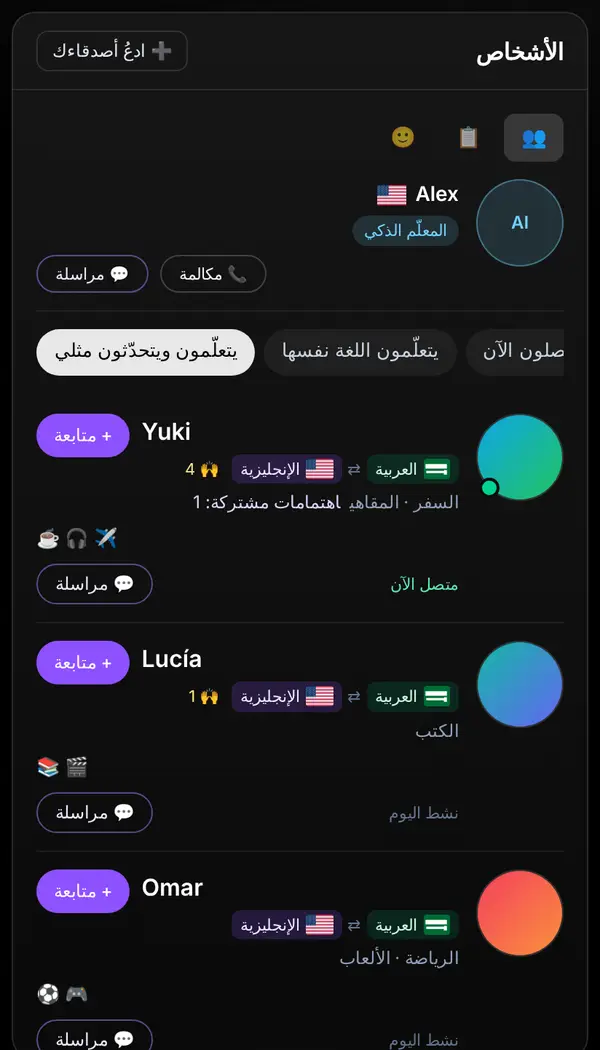
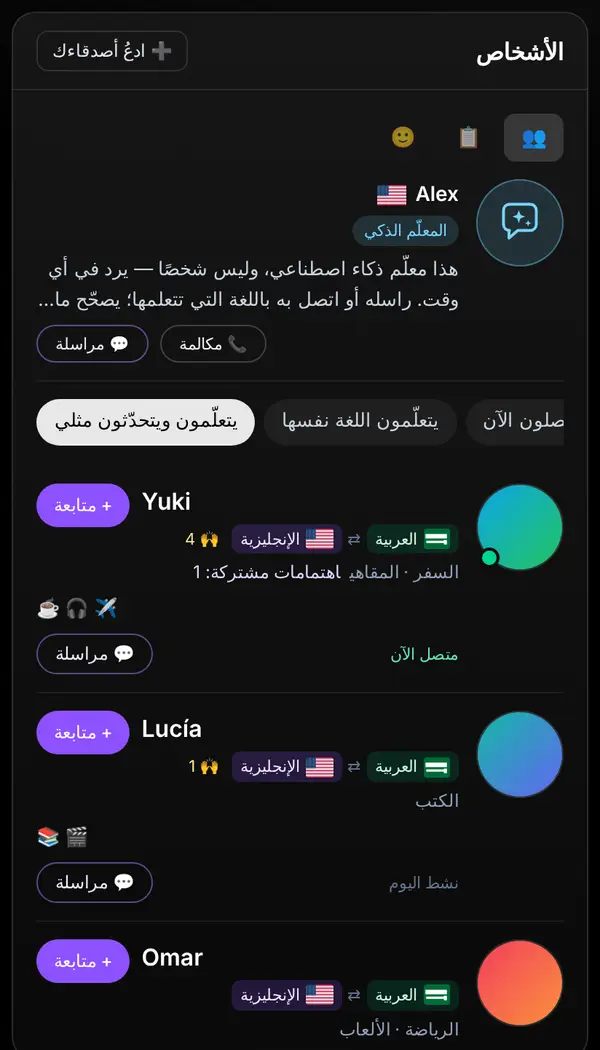
AI 튜터 그림(말풍선·반짝임 아이콘)과 소개 글(사람이 아니라 AI 튜터) 14개 언어, 사용법 그림 다시 — 앱 빌드
Claude-Session: https://claude.ai/code/session_01Ve28KufRWnLxBcdBrz6cEL

diff --git a/src/components/AiTutorProfile.tsx b/src/components/AiTutorProfile.tsx
@@ -10,15 +10,26 @@ import { chatPartnerForLanguage } from "@/lib/chatPartner";
  * AI 튜터도 사람 중 하나(2026-10-27 사용자 "AI 튜터를 아예 사람들과 통합해줘. 프로필 탭에 가면 AI 튜터가 있고 대화를 걸 수 있는 흐름으로").
  * 사람 탭 목록 맨 위에 사람 카드처럼 한 줄, 누르면 프로필 시트 — 💬 메시지(AI 대화) · 📞 통화 · 통화 기록.
  * 이름·국기는 학습 언어별 튜터(lib/chatPartner.ts — AI 대화 머리와 같은 사람). 로그인 없이도 보인다(AI 기능은 로그인 없이).
+ * 소개 글 `aiTutorBio` — 사람이 아니라 AI 튜터임과 할 수 있는 것(사용자가 이 화면에 넣으라고 함, DESIGN.md "안내 글" 예외).
+ */
+/**
+ * AI 튜터 그림(2026-10-27 사용자 "AI 아이콘으로 이미지와 프로필을 만들어 넣어줘. 사람처럼 만들 필요는 없고"):
+ * 사람 얼굴 대신 말풍선 + 반짝임. 색은 토큰(info)에서 — currentColor.
  */
 export function AiAvatar({ size = 60 }: { size?: number }) {
   return (
     <span
       aria-hidden
       style={{ width: size, height: size }}
-      className="flex shrink-0 items-center justify-center rounded-full border border-info/40 bg-info/15 text-caption font-semibold text-info"
+      className="flex shrink-0 items-center justify-center rounded-full border border-info/40 bg-info/15 text-info"
     >
-      AI
+      <svg viewBox="0 0 48 48" width={Math.round(size * 0.6)} height={Math.round(size * 0.6)} fill="none" stroke="currentColor" strokeWidth={2.6} strokeLinecap="round" strokeLinejoin="round">
+        {/* 말풍선 */}
+        <path d="M9 12.5A5.5 5.5 0 0 1 14.5 7h19A5.5 5.5 0 0 1 39 12.5v13A5.5 5.5 0 0 1 33.5 31H22l-8 7v-7h0.5A5.5 5.5 0 0 1 9 25.5z" />
+        {/* 반짝임(큰 별 + 작은 별) */}
+        <path d="M23 12.5l1.6 4.2 4.2 1.6-4.2 1.6L23 24.1l-1.6-4.2-4.2-1.6 4.2-1.6z" fill="currentColor" stroke="none" />
+        <path d="M31.5 21.5l0.8 2 2 0.8-2 0.8-0.8 2-0.8-2-2-0.8 2-0.8z" fill="currentColor" stroke="none" />
+      </svg>
     </span>
   );
 }
@@ -49,6 +60,7 @@ export function AiTutorPerson({ ui, targetLanguage, canCall, messageLabel }: { u
           <button type="button" onClick={() => setOpen(true)} className="block w-full text-start">
             <TutorName targetLanguage={targetLanguage} className="text-body font-semibold text-white" />
             <span className="mt-1 inline-block rounded-full bg-info/15 px-2 py-0.5 text-meta text-info">{ui.talkAiTutor}</span>
+            <p className="mt-1.5 line-clamp-2 text-note leading-relaxed text-slate-300">{ui.aiTutorBio}</p>
           </button>
           <div className="mt-1.5 flex items-center justify-end gap-2">
             {canCall ? (
@@ -108,6 +120,7 @@ export function AiTutorSheet({
               ×
             </button>
           </div>
+          <p className="mt-4 text-body leading-relaxed text-slate-200">{ui.aiTutorBio}</p>
           <div className="mt-5 grid grid-cols-2 gap-2">
             <button type="button" onClick={go(openChat)} className="rounded-xl bg-violet-500 px-3 py-2.5 text-body font-medium text-white">
               💬 {messageLabel}

diff --git a/src/lib/copy.ts b/src/lib/copy.ts
@@ -722,6 +722,7 @@ const generatedWhatsNewOverlay = {
   talkAiTutorSub: "Practise in chat · 📞 call",
   talkAiCall: "Call the AI tutor",
   callRecordsTitle: "Call history",
+  aiTutorBio: "An AI tutor, not a person — it answers any time. Chat or call in the language you're learning; it fixes what you write and tells you how to say what you mean.",
   homeTabMessages: "Messages",
   modeAi: "Learn with AI",
   modePeople: "Learn with people",
@@ -1308,6 +1309,7 @@ export const copy = {
     talkAiTutorSub: "채팅으로 연습 · 📞 통화",
     talkAiCall: "AI 튜터와 통화",
     callRecordsTitle: "통화 기록",
+    aiTutorBio: "사람이 아니라 AI 튜터예요. 언제든 바로 답해요. 배우는 언어로 채팅·통화하고, 쓴 문장을 고쳐 주고 하고 싶은 말을 그 언어로 알려 줘요.",
     homeTabMessages: "메시지",
     modeAi: "AI와 학습",
     modePeople: "사람과 학습",
@@ -2628,6 +2630,7 @@ export const copy = {
     talkAiTutorSub: "Practise in chat · 📞 call",
     talkAiCall: "Call the AI tutor",
     callRecordsTitle: "Call history",
+    aiTutorBio: "An AI tutor, not a person — it answers any time. Chat or call in the language you're learning; it fixes what you write and tells you how to say what you mean.",
     homeTabMessages: "Messages",
     modeAi: "Learn with AI",
     modePeople: "Learn with people",
@@ -3947,6 +3950,7 @@ export const copy = {
     talkAiTutorSub: "Practica en el chat · 📞 llamada",
     talkAiCall: "Llamar al tutor IA",
     callRecordsTitle: "Historial de llamadas",
+    aiTutorBio: "Un tutor IA, no una persona: responde en cualquier momento. Chatea o llama en el idioma que aprendes; corrige lo que escribes y te dice cómo decir lo que quieres.",
     homeTabMessages: "Mensajes",
     modeAi: "Con la IA",
     modePeople: "Con personas",

diff --git a/PRODUCT.md b/PRODUCT.md
@@ -275,7 +275,7 @@
   고르기는 모델을 부르지 않아 AI 도움·비용이 들지 않는다. 팀 워크스페이스에 쌓이는 "물은 표현"은 고른 부분이 있으면 그 부분.
   "✉ 쪽지로 묻기"는 같은 인용을 그 줄을 말한 사람과의 1:1 메시지로(질문 미리 채움, 말풍선에 "🎙 말하는 방에서", 30일), 받는 사람이 방에 있으면 위에 "…님이 쪽지를 보냈어요"(누르면 대화). 보내면 댓글에 인용이 붙고(인용 글은 서버가 방 기록에서 채움), 집힌 줄 옆에 ❓ 수, 말한 사람에게는 그 질문이 노란 테두리 "…님이 내 말을 물어봤어요". 답은 목소리로 하거나 그 질문을 "답하기". 문구는 14개 언어(`src/lib/rooms/copy.ts`·`copy.locales.ts`, Claude가 씀 — 원어민 확인 권장). 기획: `hub/drafts/voice-room-workspace.md`.
   하단 탭 이름(2026-10-19, 사용자 요청): 사람 → **My**(각 언어의 My와 같은 말, 예: ja マイ·es Mi espacio), 말하는 방 → **Room**(ko·en, 다른 언어는 그대로). 화면 제목·안의 글은 그대로 "말하는 방".
-  **AI 튜터도 사람 중 하나(2026-10-27, 사용자 "AI 튜터를 아예 사람들과 통합 — 프로필 탭에 가면 AI 튜터가 있고 대화를 걸 수 있는 흐름", `AiTutorProfile.tsx`):** 사람 탭 목록 맨 위에 사람 카드처럼 AI 튜터(학습 언어별 이름·국기, "AI 튜터" 표시, 💬 메시지·📞 통화). 누르면 프로필 시트 — 💬 메시지 → AI 대화, 📞 통화, 통화 기록. 로그인 없이도 보인다. 대화 탭 맨 위 줄도 같은 이름·국기의 대화 한 줄(📞 바로 통화), 따로 있던 "AI 튜터와 통화" 줄은 뺌.
+  **AI 튜터도 사람 중 하나(2026-10-27, 사용자 "AI 튜터를 아예 사람들과 통합 — 프로필 탭에 가면 AI 튜터가 있고 대화를 걸 수 있는 흐름", `AiTutorProfile.tsx`):** 사람 탭 목록 맨 위에 사람 카드처럼 AI 튜터(학습 언어별 이름·국기, "AI 튜터" 표시, 그림은 사람 얼굴 대신 말풍선 + 반짝임 아이콘, 소개 글 `aiTutorBio` "사람이 아니라 AI 튜터예요…"(사용자 2026-10-27 "AI임을 설명해줘"), 💬 메시지·📞 통화). 누르면 프로필 시트 — 💬 메시지 → AI 대화, 📞 통화, 통화 기록. 로그인 없이도 보인다. 대화 탭 맨 위 줄도 같은 이름·국기의 대화 한 줄(📞 바로 통화), 따로 있던 "AI 튜터와 통화" 줄은 뺌.
   **사람 탭(하단 맨 끝, 2026-10-18, `PeopleTab.tsx`·`RoomPeople.tsx`, `/api/social` people·ping, `server/presenceStore.ts`):** 사람과 학습 묶음의 첫 탭. 말하는 방 로비는 방만, 메시지는 하단 탭 "메시지"(`MessagesTab.tsx`, 목록·안 읽음 수는 AppHome이 30초·메시지 탭에선 8초마다).
   카드의 메시지는 말하는 방과 같은 대화 화면을 그 위에 띄운다(`lib/rooms/openDm.ts`). 사용법(?)은 말하는 방 것을 연다. 최근 2주 안에 앱을 쓴(로그인한) 사람이
   최근 순으로 최대 60명 — 사진·닉네임·언어(앱 언어 ⇄ 학습 언어, 그 사람의 앱 설정 그대로)·자기소개 두 줄·"접속 중"(5분 안)/"오늘"/"n일 전", 카드에서 바로 팔로우·메시지, 누르면 프로필 시트.

diff --git a/hub/log/2026-10.md b/hub/log/2026-10.md
@@ -3252,3 +3252,10 @@
 - 채팅·묻기·시트·팩 98명 1,148요청 + 8칸 98명 831요청(seed 2026102714), Claude 평가 120줄 → 큰 문제 14 모두 동의.
 - 새 유형: 채팅 튜터 답 맥락 어긋남 7(자기 이야기를 학습자 일로·없던 진척·고친 걸 답이 뒤집음·없던 사실). register 38%·어순 83%·시제 89%는 알려진 것. reports·inbox 한 줄.
 - 구조: 변화 없음
+
+## 2026-10-27 · dev · AI 튜터 그림·소개 글
+- 사용자: "AI 튜터도 AI 아이콘으로 이미지와 프로필을 만들어 넣어줘. 사람처럼 만들 필요는 없고 AI 튜터임을 설명해줘."
+- 한 일(앱 빌드): `AiAvatar` — "AI" 글자 대신 말풍선 + 반짝임 SVG(색 토큰 info). 사람 탭 카드(두 줄)·프로필 시트(전부)에 소개 글 `aiTutorBio`("사람이 아니라 AI 튜터예요. 언제든 바로 답해요. 배우는 언어로 채팅·통화하고…") 14개 언어 — 사용자가 이 화면에 넣으라고 한 안내라 화면 설명 금지 규칙의 예외. 대화 탭 AI 줄도 같은 그림. 사용법 그림 `people-ai`·`talk-calls` 14개 언어 다시 찍음.
+- 확인(웹 빌드): ko/ja·ja/en·ar/es 카드·시트(소개 글, 아랍어 오른쪽부터). tmp/verify/2026-10-27/ai-profile.png.
+- 구조: 변화 없음
+- 커밋/브랜치: main
